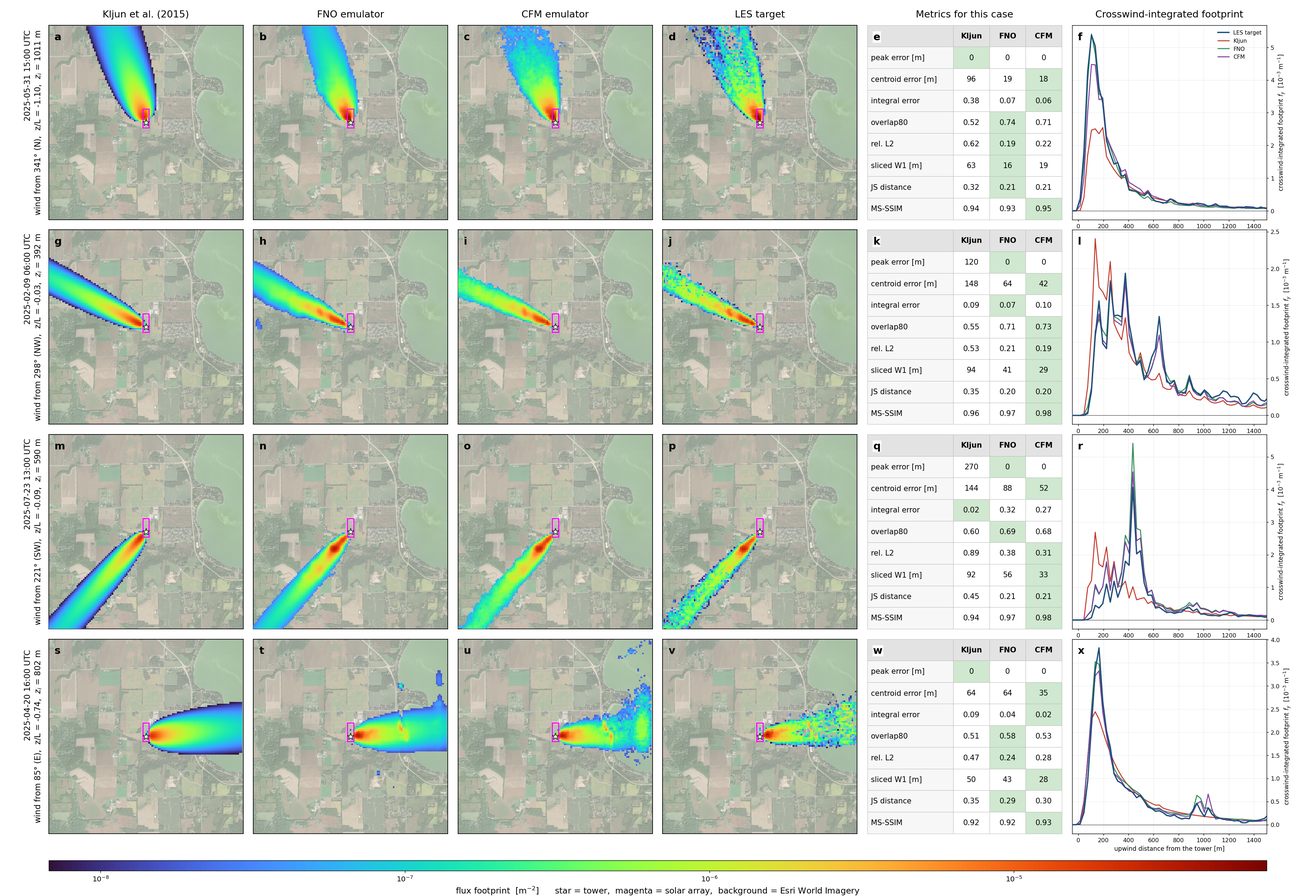
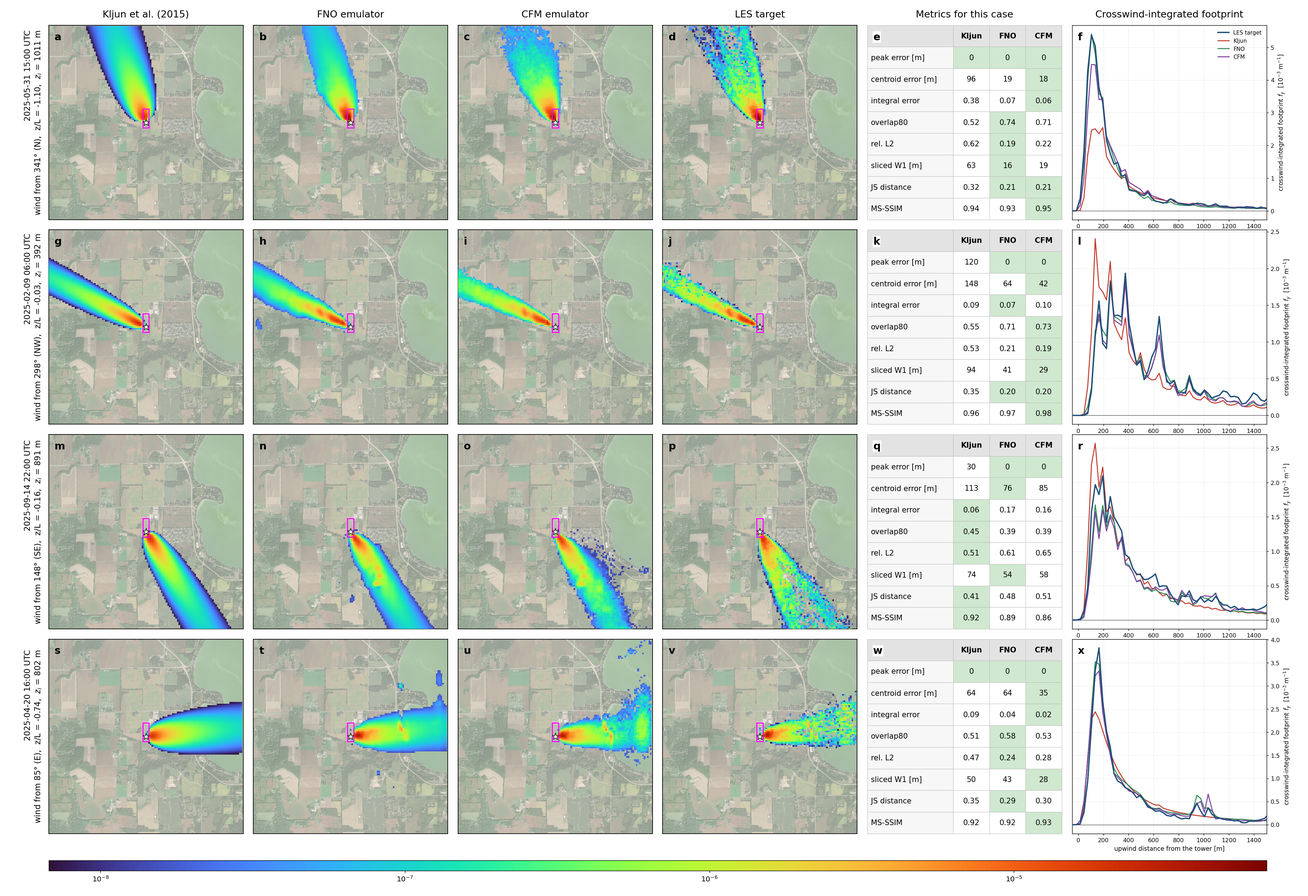
Showcase: ties shade every tied cell, no colour-bar text, --cases to pin rows; generative: --prefer-cfm-profile; test figures re-picked

diff --git a/ml_cfm/fig_showcase.py b/ml_cfm/fig_showcase.py
@@ -51,6 +51,7 @@ def main(argv=None):
     ap.add_argument("--allow-test", action="store_true")
     ap.add_argument("--out", default=None)
     ap.add_argument("--exclude", nargs="*", default=[], help="run_ids not to pick")
+    ap.add_argument("--cases", nargs="*", default=None, help="explicit run_ids, one per row, overriding the picker")
     a = ap.parse_args(argv)
     if a.split == "test" and not a.allow_test:
         raise SystemExit("refusing the test split without --allow-test")
@@ -68,7 +69,11 @@ def main(argv=None):
     X, Y = np.meshgrid(xc0, xc0)
     fields, les, _ = RM.recipe_fields(split, valid)
     kl, fno, cfm = fields["Kljun"], fields["FNO"], fields["CFM"]
-    rows = pick_cases(split, a.exclude)
+    if a.cases:
+        ids = split.meta["run_id"].astype(str)
+        rows = [int(np.where(ids == c)[0][0]) for c in a.cases]
+    else:
+        rows = pick_cases(split, a.exclude)
     sc = M.score_fields({k: f[rows] for k, f in fields.items()}, les[rows], split.wdir_deg[rows], arr, split.asymptote[rows])
     fm = {k: [RM.field_metrics(f[i], les[i], v, X, Y) for i in rows] for k, f in fields.items()}
     vmax = float(max(les[rows].max(), kl[rows].max(), cfm[rows].max(), fno[rows].max()))
@@ -106,7 +111,6 @@ def main(argv=None):
     lv = FS.levels(vmax)
     ticks = np.arange(np.ceil(lv[0]), np.floor(lv[-1]) + 0.5)
     cb.set_ticks(ticks); cb.set_ticklabels([f"$10^{{{int(t)}}}$" for t in ticks])
-    cb.set_label("flux footprint  [m$^{-2}$]      star = tower,  magenta = solar array,  background = Esri World Imagery", fontsize=13)
     cb.ax.tick_params(labelsize=11)
     os.makedirs(os.path.dirname(out), exist_ok=True)
     fig.savefig(out, dpi=130)

diff --git a/ml_cfm/fig_generative.py b/ml_cfm/fig_generative.py
@@ -34,6 +34,8 @@ def main(argv=None):
     ap.add_argument("--case", default=None, help="run_id; default = the strongest-array N record")
     ap.add_argument("--out", default=None)
     ap.add_argument("--exclude", nargs="*", default=[], help="run_ids not to pick")
+    ap.add_argument("--prefer-cfm-profile", action="store_true",
+                    help="among N records with the array in view, pick the one where the CFM's crosswind profile beats the FNO's by the most")
     a = ap.parse_args(argv)
     if a.split == "test" and not a.allow_test:
         raise SystemExit("refusing the test split without --allow-test")
@@ -54,7 +56,19 @@ def main(argv=None):
     else:
         ok = ~np.isin(split.meta["run_id"].astype(str), list(a.exclude))
         north = np.where((split.octant.astype(str) == "N") & ok)[0]
-        i = int(north[np.argmax(split.meta["array_share"][north])])
+        if a.prefer_cfm_profile:
+            import seed_leakage as SL
+            cand = north[split.meta["array_share"][north] > 0.05]
+            gain = []
+            for j in cand:
+                w = float(split.wdir_deg[j])
+                fy_l = FCP.crosswind_integrated(les[j], w)[1]
+                d_f = SL.d_shape(FCP.crosswind_integrated(fields["FNO"][j], w)[1], fy_l)
+                d_c = SL.d_shape(FCP.crosswind_integrated(fields["CFM"][j], w)[1], fy_l)
+                gain.append(d_f - d_c)
+            i = int(cand[int(np.argmax(gain))])
+        else:
+            i = int(north[np.argmax(split.meta["array_share"][north])])
     wd = float(split.wdir_deg[i])
     S = samples[:, i]
     mean, kl, fno, tgt = fields["CFM"][i], fields["Kljun"][i], fields["FNO"][i], les[i]

diff --git a/ml_cfm/figstyle.py b/ml_cfm/figstyle.py
@@ -126,9 +126,10 @@ def table_panel(ax, values, letter=None, fontsize=11):
     cells, colours = [], []
     for key, label, fmt, hi in TABLE_ROWS:
         v = np.asarray(values[key], float)
-        best = int(np.nanargmax(v) if hi else np.nanargmin(v))
-        cells.append([label] + [fmt.format(x) for x in v])
-        colours.append(["#f7f7f7"] + ["#cfe8cf" if j == best else "white" for j in range(3)])
+        txt = [fmt.format(x) for x in v]
+        best = fmt.format(np.nanmax(v) if hi else np.nanmin(v))     # ties at the printed precision all shade
+        cells.append([label] + txt)
+        colours.append(["#f7f7f7"] + ["#cfe8cf" if t == best else "white" for t in txt])
     tb = ax.table(cellText=cells, colLabels=["", "Kljun", "FNO", "CFM"], cellColours=colours,
                   loc="center", cellLoc="center", colWidths=[0.44, 0.185, 0.185, 0.185], bbox=[0.0, 0.0, 1.0, 1.0])
     tb.auto_set_font_size(False); tb.set_fontsize(fontsize)

diff --git a/docs/results/CFM_CALIB_RESULT.md b/docs/results/CFM_CALIB_RESULT.md
@@ -340,4 +340,4 @@ FNO 47.1 / 86.7 / 0.190 / 0.607 / 0.362 / 50.8 / 0.290 / 0.937; CFM 48.8 / 68.8 
 in every column. The CFM leads the FNO on centroid (69 vs 93 m) and W1 (41 vs 54 m) and ties on the
 rest; both emulators halve or better Kljun's peak, centroid and W1 errors. Sectors (90°, N/E/S/W,
 n = 43 / 38 / 95 / 118) and octants are in `metrics_test.json`; the figures are
-`showcase_test.png` (cases 2025-05-31 15 N, 2025-02-09 06 NW, 2025-07-23 13 SW, 2025-04-20 16 E; the first pick per sector was set aside with `--exclude` on request), `generative_test.png` (2025-01-31 18, N), `sectors_test.png`, `distributions_test.png`.
+`showcase_test.png` (cases 2025-05-31 15 N, 2025-02-09 06 NW, 2025-09-14 22 SE, 2025-04-20 16 E, pinned with `--cases`; the picker's first choices were set aside on request), `generative_test.png` (2025-03-19 21, N: the in-view N record where the CFM's crosswind profile beats the FNO's by the most, `--prefer-cfm-profile`), `sectors_test.png`, `distributions_test.png`.

diff --git a/results/ml_cfm/TIMELINE.md b/results/ml_cfm/TIMELINE.md
@@ -37,3 +37,4 @@
 - 2026-09-04 figures v5 on val: no wind arrow, full-saturation footprints; generative two panels with hot-pink mean contour; sectors without the perfect line; domain without caption, 3-side shadow; ECDF legends lower right; gate PASS
 - 2026-09-04 TEST RUN (user's go): test_predictions --allow-test (FNO preds + 20 CFM samples/seed, seeds 0-3, RNG 0), report_metrics + 4 figures on test; docs §8; 4 audited test reads, all allow_test
 - 2026-09-04 test figures re-picked with --exclude: showcase case_2025053115/020906/072313/042016, generative case_2025013118 (2 more audited test reads)
+- 2026-09-04 test figures: showcase pinned (--cases 053115 020906 091422 042016), table shades ties, no colourbar text; generative case_2025031921 (--prefer-cfm-profile)
